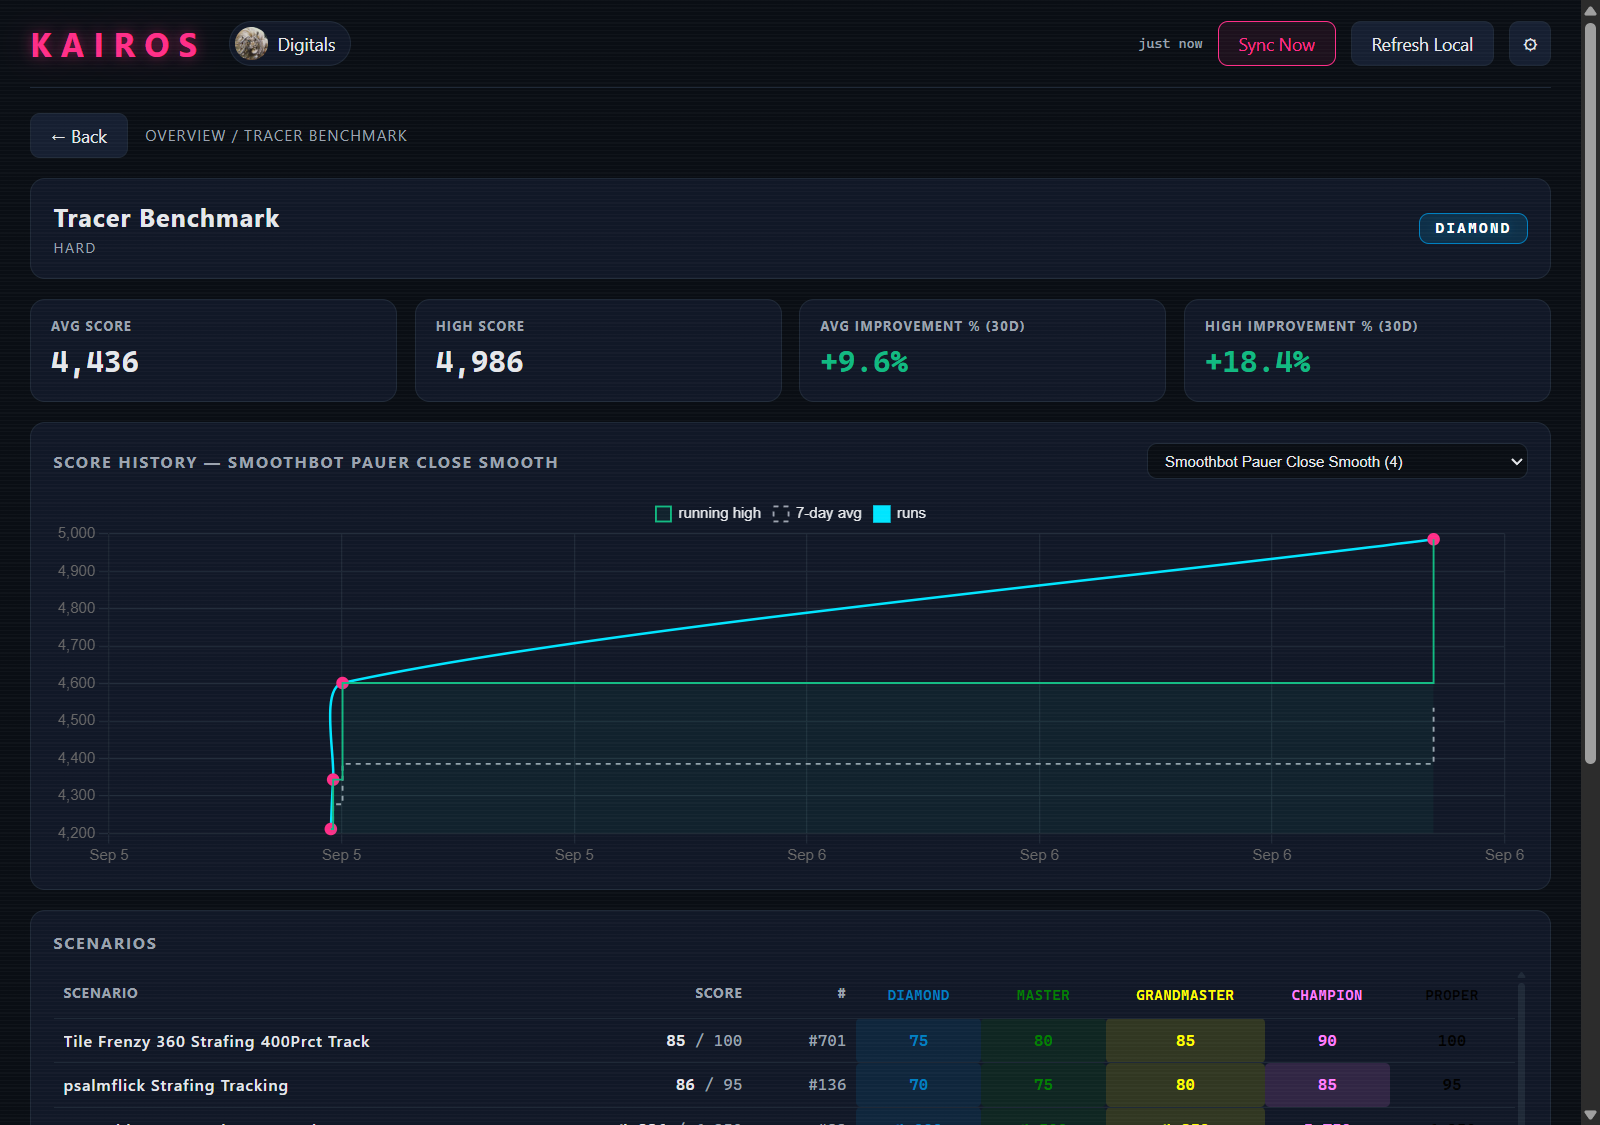
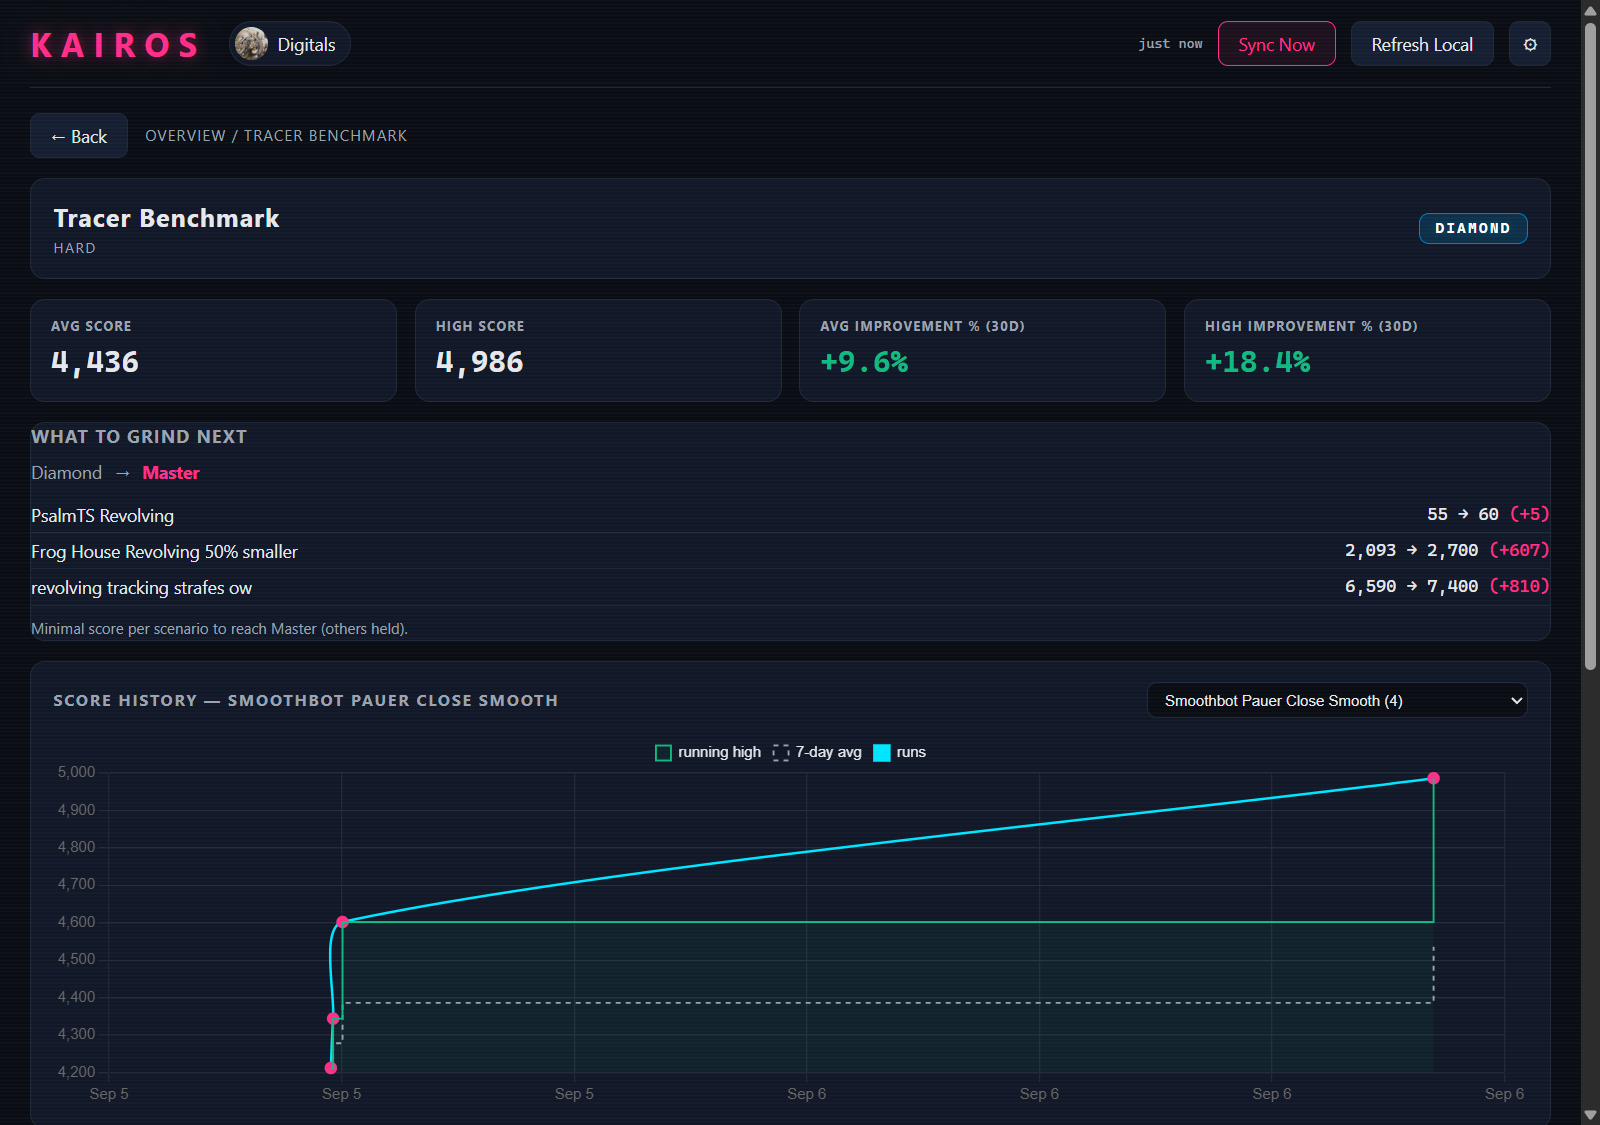
v0.1.7 content, mobile fixes, fresh screenshots

diff --git a/index.html b/index.html
@@ -38,6 +38,7 @@ body::before{ /* ambient neon wash */
 }
 a{color:var(--accent-2); text-decoration:none}
 a:hover{text-decoration:underline}
+img{max-width:100%}
 .wrap{max-width:1120px; margin:0 auto; padding:0 24px; position:relative; z-index:1}
 .num{font-family:var(--mono); font-variant-numeric:tabular-nums}
 
@@ -48,10 +49,10 @@ nav.top{
   border-bottom:1px solid var(--border);
 }
 nav.top .wrap{display:flex; align-items:center; gap:22px; padding-top:12px; padding-bottom:12px}
-.logo{font-family:var(--display); font-weight:800; letter-spacing:.3em; color:var(--accent); text-shadow:var(--glow-magenta); font-size:18px}
+.logo{font-family:var(--display); font-weight:800; letter-spacing:.3em; color:var(--accent); text-shadow:var(--glow-magenta); font-size:18px; white-space:nowrap}
 .logo:hover{text-decoration:none}
 nav.links{display:flex; gap:18px; margin-left:auto; font-size:13.5px}
-nav.links a{color:var(--muted)}
+nav.links a{color:var(--muted); white-space:nowrap}
 nav.links a:hover{color:var(--accent-2); text-decoration:none}
 .btn{
   display:inline-flex; align-items:center; gap:8px;
@@ -95,14 +96,14 @@ p.lead{font-size:19px; margin:0 0 28px; font-weight:600}
 p.lead small{display:block; font-size:14px; font-weight:400; color:var(--muted); margin-top:6px}
 
 /* stat strip */
-.stats{display:grid; grid-template-columns:repeat(auto-fit,minmax(200px,1fr)); gap:14px; margin:26px 0 0}
+.stats{display:grid; grid-template-columns:repeat(auto-fit,minmax(min(100%,200px),1fr)); gap:14px; margin:26px 0 0}
 .stat{background:var(--panel); border:1px solid var(--border); border-radius:var(--radius); padding:16px 18px}
 .stat b{display:block; font-size:26px; font-family:var(--mono); color:#fff}
 .stat b em{font-style:normal; color:var(--accent-2)}
 .stat span{font-size:12px; letter-spacing:.1em; text-transform:uppercase; color:var(--muted)}
 
 /* feature grid */
-.grid{display:grid; grid-template-columns:repeat(auto-fill,minmax(300px,1fr)); gap:14px}
+.grid{display:grid; grid-template-columns:repeat(auto-fill,minmax(min(100%,300px),1fr)); gap:14px}
 .card{background:var(--panel); border:1px solid var(--border); border-radius:var(--radius); padding:20px; transition:border-color .15s,box-shadow .15s}
 .card:hover{border-color:rgba(0,229,255,.5); box-shadow:var(--glow-cyan)}
 .card .ico{font-size:22px}
@@ -119,7 +120,7 @@ figure.shot figcaption{padding:12px 16px; font-size:13px; color:var(--muted); bo
 figure.shot figcaption strong{color:var(--text); display:block; font-size:14px; margin-bottom:2px}
 
 /* how it works */
-.flow{display:grid; grid-template-columns:repeat(auto-fit,minmax(240px,1fr)); gap:14px; margin-bottom:16px}
+.flow{display:grid; grid-template-columns:repeat(auto-fit,minmax(min(100%,240px),1fr)); gap:14px; margin-bottom:16px}
 .flow .step{background:var(--panel); border:1px solid var(--border); border-radius:var(--radius); padding:20px}
 .flow .n{font-family:var(--mono); color:var(--accent); font-size:12px; letter-spacing:.15em}
 .flow h3{margin:8px 0 6px; font-size:15px}
@@ -133,24 +134,25 @@ figure.shot figcaption strong{color:var(--text); display:block; font-size:14px; 
 /* download */
 .dl{display:grid; grid-template-columns:1.2fr .8fr; gap:16px}
 @media(max-width:760px){.dl{grid-template-columns:1fr}}
-.dl .panel{background:var(--panel); border:1px solid var(--border); border-radius:var(--radius); padding:24px}
+.dl .panel{background:var(--panel); border:1px solid var(--border); border-radius:var(--radius); padding:24px; min-width:0}
 .dl ol{margin:12px 0 0; padding-left:20px; color:var(--muted); font-size:14px}
 .dl ol li{margin-bottom:10px}
 .dl ol strong{color:var(--text)}
 pre.term{
   background:#070b11; border:1px solid var(--border); border-radius:8px;
   padding:14px 16px; font-family:var(--mono); font-size:12.5px; color:#c9f5ff;
-  overflow-x:auto; line-height:1.7; margin:12px 0 0;
+  overflow-x:auto; line-height:1.7; margin:12px 0 0; max-width:100%;
 }
 pre.term .c{color:#5b6577} pre.term .k{color:var(--accent)}
 
 /* roadmap */
-.rm-grid{display:grid; grid-template-columns:repeat(auto-fit,minmax(280px,1fr)); gap:14px}
+.rm-grid{display:grid; grid-template-columns:repeat(auto-fit,minmax(min(100%,280px),1fr)); gap:14px}
 .rm{background:var(--panel); border:1px solid var(--border); border-radius:var(--radius); padding:20px 22px}
 .rm.now{border-color:rgba(255,46,136,.55); box-shadow:var(--glow-magenta)}
 .rm h3{margin:0 0 4px; font-size:15px; font-family:var(--mono)}
-.rm h3 .tag{font-size:10px; letter-spacing:.12em; border:1px solid var(--accent); color:var(--accent); border-radius:5px; padding:1px 7px; margin-left:8px; vertical-align:2px}
+.rm h3 .tag{font-size:10px; letter-spacing:.12em; border:1px solid var(--accent); color:var(--accent); border-radius:5px; padding:1px 7px; margin-left:8px; vertical-align:2px; white-space:nowrap}
 .rm.next h3 .tag{border-color:var(--accent-2); color:var(--accent-2)}
+.rm.shipped h3 .tag{border-color:var(--success); color:var(--success)}
 .rm ul{margin:10px 0 0; padding:0; list-style:none; font-size:13.5px; color:var(--muted)}
 .rm li{margin-bottom:8px; padding-left:24px; position:relative}
 .rm li::before{content:'○'; position:absolute; left:2px; color:var(--accent-2)}
@@ -166,6 +168,26 @@ pre.term .c{color:#5b6577} pre.term .k{color:var(--accent)}
 footer{margin-top:72px; border-top:1px solid var(--border); padding:28px 0 40px; color:var(--muted); font-size:13px}
 footer .wrap{display:flex; gap:16px; flex-wrap:wrap; align-items:center}
 footer .sp{margin-left:auto; font-family:var(--mono); font-size:12px}
+
+/* --- mobile --- */
+@media(max-width:640px){
+  .wrap{padding:0 16px}
+  nav.top .wrap{flex-wrap:wrap; gap:8px 14px; padding-top:10px; padding-bottom:10px}
+  .logo{font-size:16px}
+  nav.links{margin-left:0; flex-wrap:wrap; gap:6px 14px; font-size:12.5px}
+  header.hero{padding:56px 0 36px}
+  .kicker{font-size:10px; letter-spacing:.12em; line-height:1.8}
+  h1.mega{letter-spacing:.12em}
+  section{padding:40px 0 4px}
+  p.lead{font-size:17px}
+  .hero-shot{margin-top:28px}
+  .card{padding:16px}
+  .dl .panel{padding:18px}
+  .rm{padding:18px}
+  pre.term{font-size:11px; padding:12px}
+  footer{margin-top:48px}
+  footer .sp{margin-left:0; flex-basis:100%}
+}
 
 /* reveal */
 .rv{opacity:0; transform:translateY(14px); transition:opacity .5s,transform .5s}
@@ -198,10 +220,10 @@ footer .sp{margin-left:auto; font-family:var(--mono); font-size:12px}
       <a class="btn btn-accent" href="https://github.com/Digitals06/kairos/releases" target="_blank" rel="noopener">⬇ Download kairos.exe</a>
       <a class="btn" href="https://github.com/Digitals06/kairos" target="_blank" rel="noopener">View source on GitHub</a>
     </div>
-    <div class="badges"><span>Rust</span><span>Tauri v2</span><span>Svelte 5</span><span>Chart.js</span><span>SQLite · local-first</span><span>MIT</span></div>
+    <div class="badges"><span>v0.1.7</span><span>Rust</span><span>Tauri v2</span><span>Svelte 5</span><span>Chart.js</span><span>SQLite · local-first</span><span>MIT</span></div>
     <figure class="hero-shot rv" style="margin-left:0;margin-right:0">
       <img src="assets/app-overview.png" alt="Kairos benchmark overview grid with rank chips">
-      <figcaption>Live capture — the benchmark grid with rank chips, favorites, and sync status.</figcaption>
+      <figcaption>Live capture — the benchmark grid with type filter tabs, rank chips, favorites, and sync status.</figcaption>
     </figure>
   </header>
 
@@ -221,17 +243,19 @@ footer .sp{margin-left:auto; font-family:var(--mono); font-size:12px}
       <div class="card rv"><div class="ico">🗂</div><h3>Full benchmark coverage</h3><p>Every benchmark tracked on <a href="https://evxl.app" target="_blank" rel="noopener">evxl.app</a> — Voltaic, Revosect, PureG, Aimerz+ and the rest — with official rank names and colors.</p></div>
       <div class="card rv"><div class="ico">🔄</div><h3>One-click sync, polite by default</h3><p>Quick pass for your mains, Deep Scan for everything. Smart sync skips benchmarks whose CSVs haven't changed; throttles get patient retries.</p></div>
       <div class="card rv"><div class="ico">📈</div><h3>Per-scenario detail</h3><p>Score-history chart (local plays + snapshots, deduplicated), 7-day average, running high, avg/high scores, 30-day improvement %. Stale non-PB syncs never pollute the charts.</p></div>
+      <div class="card rv"><div class="ico">🧭</div><h3>What to grind next</h3><p>Each benchmark page names the cheapest per-scenario scores for the next tier — probed against the local engine, so exact for every method family. Targets cap at each scenario's ladder top, so they're always achievable; when no single scenario can carry you, you get a numbered rung-by-rung plan instead.</p></div>
       <div class="card rv"><div class="ico">📌</div><h3>Search + favorites</h3><p>Filter the grid by name, pin benchmarks to the top. Pins survive restarts. Registry updater keeps new seasons coming without a rebuild.</p></div>
+      <div class="card rv"><div class="ico">🏷</div><h3>Benchmark-type filter</h3><p>12 tabs mirroring evxl's own grouping — Tracking, Static, Clicking, Micro, Dynamic, Evasive and more. Multi-select, combined with the name search; only pure benchmarks match a style tab, everything unspecialized sits under Mixed.</p></div>
       <div class="card rv"><div class="ico">🔒</div><h3>Private by design</h3><p>No accounts, no telemetry — only public APIs. Live API tests skip unless you opt in. Auto-sync on launch with a “last synced X ago” indicator.</p></div>
     </div>
   </section>
 
   <section id="screenshots">
     <h2 class="sec">// Screenshots</h2>
-    <p class="lead">Straight from the app.<small>Click any image to zoom. All captured live from v0.1.5.</small></p>
+    <p class="lead">Straight from the app.<small>Click any image to zoom. All captured live from v0.1.7.</small></p>
     <div class="shots">
       <figure class="shot rv"><img src="assets/app-grid-scrolled.png" alt="Kairos benchmark grid showing many benchmark families" loading="lazy"><figcaption><strong>Benchmark grid</strong>Dozens of families — Astro, Avasive S1, Catburg, Dantes, Dark &amp; Rafal… with official rank colors.</figcaption></figure>
-      <figure class="shot rv"><img src="assets/app-search.png" alt="Kairos grid filtered by search for voltaic" loading="lazy"><figcaption><strong>Search + favorites</strong>Type to filter the grid by name; pins stay on top.</figcaption></figure>
+      <figure class="shot rv"><img src="assets/app-grind.png" alt="Kairos what-to-grind-next panel with per-scenario targets" loading="lazy"><figcaption><strong>What to grind next</strong>Exact per-scenario targets for the next tier, capped at each ladder top — or a combined step-by-step plan.</figcaption></figure>
       <figure class="shot rv"><img src="assets/app-detail-top.png" alt="Kairos Tracer Benchmark Hard detail on Smoothbot scenario" loading="lazy"><figcaption><strong>Scenario deep-dive</strong>Tracer Benchmark Hard on Smoothbot Pauer Close Smooth (4 entries): avg/high, 7-day average, 30-day improvement.</figcaption></figure>
       <figure class="shot rv"><img src="assets/app-detail-chart.png" alt="Kairos 7-entry score history chart with local plays" loading="lazy"><figcaption><strong>Score history</strong>Avasive S2 Easier, AngelClick Revolving — 7 runs on one chart. Magenta dots are local CSV plays, the rest sync snapshots, deduplicated.</figcaption></figure>
     </div>
@@ -278,13 +302,19 @@ cd ..\src-tauri
     <p class="lead">Shipped when done and verified. No dates.<small>Tracked in <a href="https://github.com/Digitals06/kairos/blob/main/ROADMAP.md" target="_blank" rel="noopener">ROADMAP.md</a> — open development, public but small.</small></p>
     <div class="rm-grid">
       <div class="rm now rv">
-        <h3>v0.1.5 <span class="tag">CURRENT</span></h3>
+        <h3>v0.1.7 <span class="tag">CURRENT</span></h3>
         <ul>
-          <li class="done">Same-run consolidation — one authoritative merged series</li>
-          <li class="done">Smart sync — only re-probe changed CSVs (mtime-based)</li>
-          <li class="done">Registry updater — new seasons without a rebuild</li>
-          <li class="done">Auto-sync on launch + “last synced X ago”</li>
-          <li class="done">“What to grind next” — design pass complete</li>
+          <li class="done">Grind-next reachability — targets capped at each scenario's ladder top, never game-impossible</li>
+          <li class="done">Combined step-by-step plans for floor/harmonic benchmarks, rung by rung</li>
+          <li class="done">Honest no-path states + each scenario listed once</li>
+        </ul>
+      </div>
+      <div class="rm shipped rv">
+        <h3>v0.1.6 <span class="tag">SHIPPED</span></h3>
+        <ul>
+          <li class="done">12-tab benchmark-type filter from evxl's own taxonomy, multi-select + search</li>
+          <li class="done">“What to grind next” panel — probe-based per-scenario targets</li>
+          <li class="done">Same-run consolidation, smart sync, registry updater, auto-sync (v0.1.5)</li>
         </ul>
       </div>
       <div class="rm next rv">
